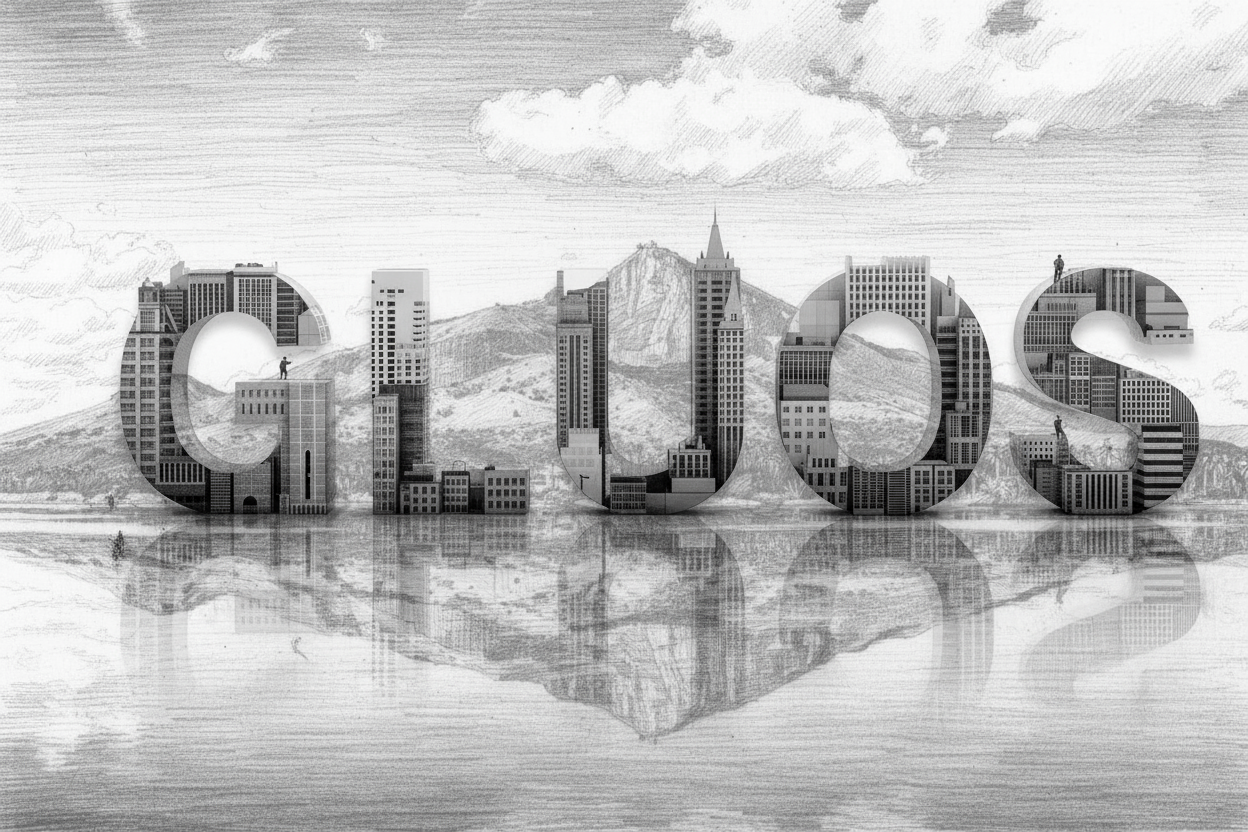
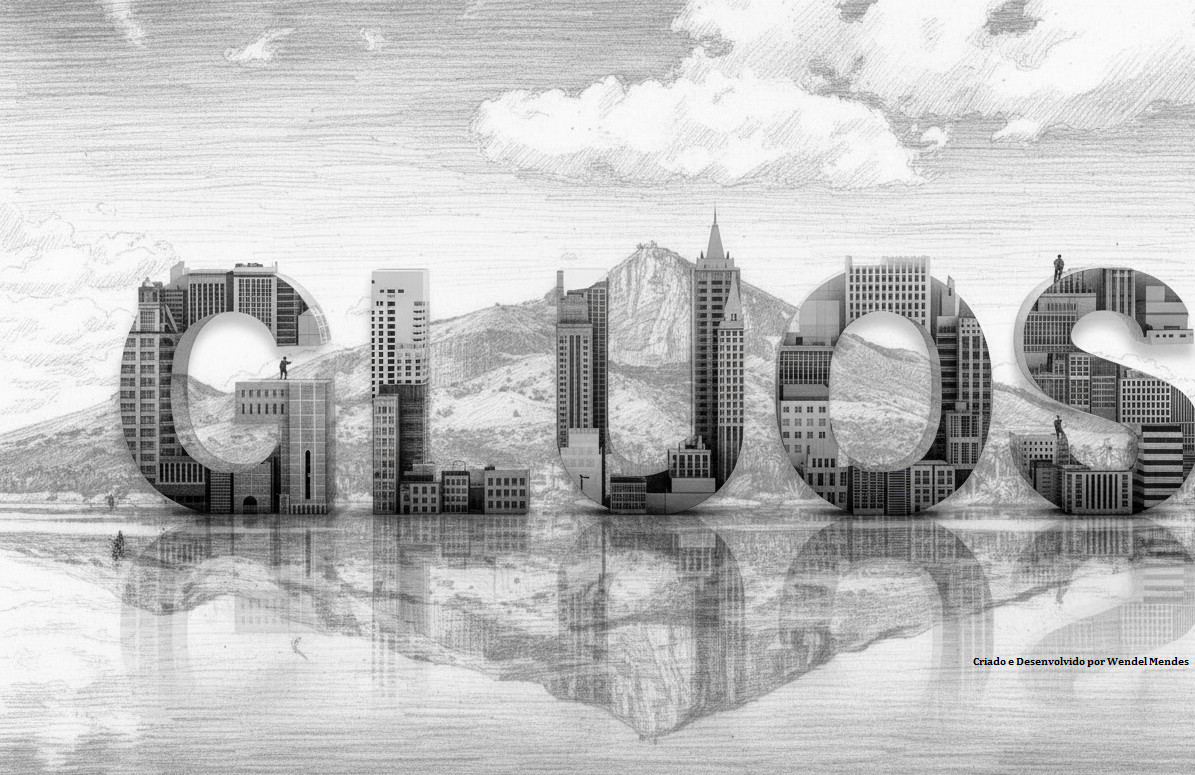
Add files via upload

diff --git a/index.html b/index.html
@@ -34,7 +34,8 @@
                                 <option value="Sônia" style="color: black;">Sônia</option>
                                 <option value="Rita" style="color: black;">Rita</option>
                                 <option value="Mara" style="color: black;">Mara</option>
-                                <option value="Gabriela" style="color: black;">Gabriela</option>
+                                <option value="Gabriella" style="color: black;">Gabriella</option>
+                                <option value="Fabiano" style="color: black;">Fabiano</option>
                                 <option value="Admin" style="color: black;">Admin</option>
                             </select>
                         </div>
@@ -57,64 +58,81 @@
     </div>
 
     <!-- Dashboard Principal -->
-    <div id="dashboard-screen" class="screen">
-        <div class="dashboard-header">
-            <div class="container">
-                <div class="header-content">
-                    <div class="header-info">
-                        <h2>Sistema GLUOS</h2>
-                        <p id="user-info">Bem-vindo!</p>
-                        <p id="datetime-info">Data e hora</p>
-                        <div class="sync-status">
-                            <span id="sync-indicator" class="status-indicator status-indicator--success"></span>
-                            <span id="sync-status-text">Sincronizado</span>
-                        </div>
-                    </div>
-                    <button id="logout-btn" class="btn btn--outline">Sair</button>
-                </div>
-            </div>
-        </div>
-        
+<div id="dashboard-screen" class="screen">
+    <div class="dashboard-header">
         <div class="container">
-            <div class="dashboard-content">
-                <h3>Selecione uma opção:</h3>
-                <div class="dashboard-buttons">
-                    <button id="new-entry-btn" class="btn btn--success btn--lg">
-                        <span>📝</span>
-                        Novo
-                    </button>
-                    <button id="multiple-entries-btn" class="btn btn--success btn--lg">
-                        <span>📝📝</span>
-                        Novos
-                    </button>
-                    <button id="bulk-entries-btn" class="btn btn--success btn--lg">
-                        <span>📝📋</span>
-                        Vários Novos
-                    </button>
-                    <button id="multi-subject-entries-btn" class="btn btn--success btn--lg">
-                        <span>📑</span>
-                        Novo: Vários assuntos
-                    </button>
-                    <button id="search-btn" class="btn btn--primary btn--lg">
-                        <span>🔍</span>
-                        Pesquisa
-                    </button>
-                    <button id="database-btn" class="btn btn--secondary btn--lg">
-                        <span>🗄</span>
-                        Base de Dados Completa
-                    </button>
-                    <button id="profile-btn" class="btn btn--profile btn--lg">
-                        <span>👤</span>
-                        Perfil
-                    </button>
-                    <button id="report-btn" class="btn btn--info btn--lg">
-                        <span>📊</span>
-                        Relatório
-                    </button>
+            <div class="header-content">
+                <div class="header-info">
+                    <h2>Sistema GLUOS</h2>
+                    <p id="user-info">Bem-vindo!</p>
+                    <p id="datetime-info">Data e hora</p>
+                    <div class="sync-status">
+                        <span id="sync-indicator" class="status-indicator status-indicator--success"></span>
+                        <span id="sync-status-text">Sincronizado</span>
+                    </div>
                 </div>
+                <button id="logout-btn" class="btn btn--outline">Sair</button>
             </div>
         </div>
     </div>
+    
+    <div class="container">
+        <div class="dashboard-content">
+            <h3>Selecione uma opção:</h3>
+            
+            <!-- Grid de Botões Principais (Botão "Novos" Removido) -->
+            <div class="dashboard-buttons">
+                <button id="new-entry-btn" class="btn btn--success btn--lg">
+                    <span>📝</span>
+                    Novo
+                </button>
+                <button id="bulk-entries-btn" class="btn btn--success btn--lg">
+                    <span>📝📋</span>
+                    Vários Novos
+                </button>
+                <button id="multi-subject-entries-btn" class="btn btn--success btn--lg">
+                    <span>📑</span>
+                    Novo: Vários assuntos
+                </button>
+                <button id="search-btn" class="btn btn--primary btn--lg">
+                    <span>🔍</span>
+                    Pesquisa
+                </button>
+                <button id="database-btn" class="btn btn--secondary btn--lg">
+                    <span>🗄</span>
+                    Base de Dados Completa
+                </button>
+                <button id="profile-btn" class="btn btn--profile btn--lg">
+                    <span>👤</span>
+                    Perfil
+                </button>
+                <button id="report-btn" class="btn btn--info btn--lg">
+                    <span>📊</span>
+                    Relatório
+                </button>
+            </div>
+
+            <!-- Campo Guia do Sistema (Abaixo dos Botões) -->
+            <div class="system-guide-card card">
+                <div class="card__header">
+                    <h4>📖 Guia do Sistema</h4>
+                </div>
+                <div class="card__body">
+                    <ul class="guide-list">
+                        <li><strong>Novo:</strong> Cadastre uma única entrada indicando o número do assunto e do processo/protocolo.</li>
+                        <li><strong>Vários Novos:</strong> Cadastre múltiplos processos (até 10) sob um mesmo assunto de forma rápida.</li>
+                        <li><strong>Novo: Vários Assuntos:</strong> Vincule até 5 assuntos diferentes a um único número de processo/protocolo.</li>
+                        <li><strong>Pesquisa:</strong> Busque processos já lançados por número, data ou servidor responsável.</li>
+                        <li><strong>Base de Dados Completa:</strong> Visualize, filtre, edite ou exclua todos os registros armazenados no sistema.</li>
+                        <li><strong>Perfil:</strong> Altere sua senha e gerencie suas credenciais de acesso.</li>
+                        <li><strong>Relatório:</strong> Gere relatórios pessoais de produtividade ou relatórios consolidados por equipe.</li>
+                    </ul>
+                </div>
+            </div>
+
+        </div>
+    </div>
+</div>
 
     <!-- Tela de Nova Entrada -->
     <div id="new-entry-screen" class="screen">

diff --git a/app.js b/app.js
@@ -55,7 +55,8 @@ const USER_EMAIL_MAPPING = {
   "Rita": "rita@hotmail.com",
   "Mara": "mara@hotmail.com",
   "Tati": "tati@hotmail.com",
-  "Gabriela": "gabriela@hotmail.com",
+  "Gabriella": "gabriela@hotmail.com",
+  "Fabiano": "fabiano@hotmail.com",
   "Admin": "seplan.gluos@valadares.mg.gov.br"
 };
 
@@ -71,7 +72,7 @@ function emailToUsername(email) {
 
 // Dados da aplicação
 const GLUOS_DATA = {
-  usuarios: ["Eduardo", "Wendel", "Júlia", "Tati", "Sônia", "Rita", "Mara", "Gabriela", "Admin"],
+  usuarios: ["Eduardo", "Wendel", "Júlia", "Tati", "Sônia", "Rita", "Mara", "Gabriella", "Fabiano", "Admin"],
   assuntos: [
     {id: 1, texto: "Separar e Preparar os Processos Agendados no Dia"},
     {id: 2, texto: "Inserção de Avisos de Vistoria na E&L"},

diff --git a/style.css b/style.css
@@ -2881,3 +2881,31 @@ background: rgba(var(--color-success-rgb), 0.05);
 min-height: 60px;
 resize: vertical;
 }
+
+/* Estilos para o Guia do Sistema */
+.system-guide-card {
+  max-width: 900px;
+  margin: var(--space-32) auto 0 auto;
+  text-align: left;
+}
+
+.system-guide-card .card__header h4 {
+  color: var(--color-primary);
+  display: flex;
+  align-items: center;
+  gap: var(--space-8);
+}
+
+.guide-list {
+  margin: 0;
+  padding-left: var(--space-20);
+  display: flex;
+  flex-direction: column;
+  gap: var(--space-12);
+  color: var(--color-text);
+  font-size: var(--font-size-sm);
+}
+
+.guide-list li strong {
+  color: var(--color-primary);
+}
